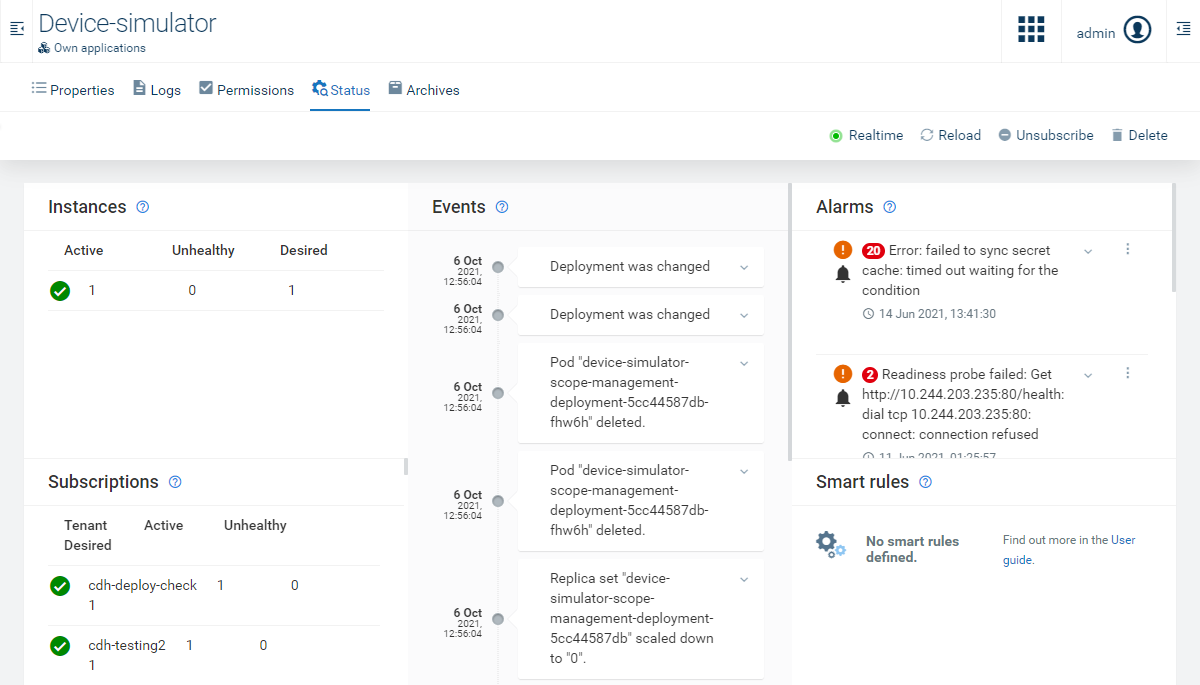
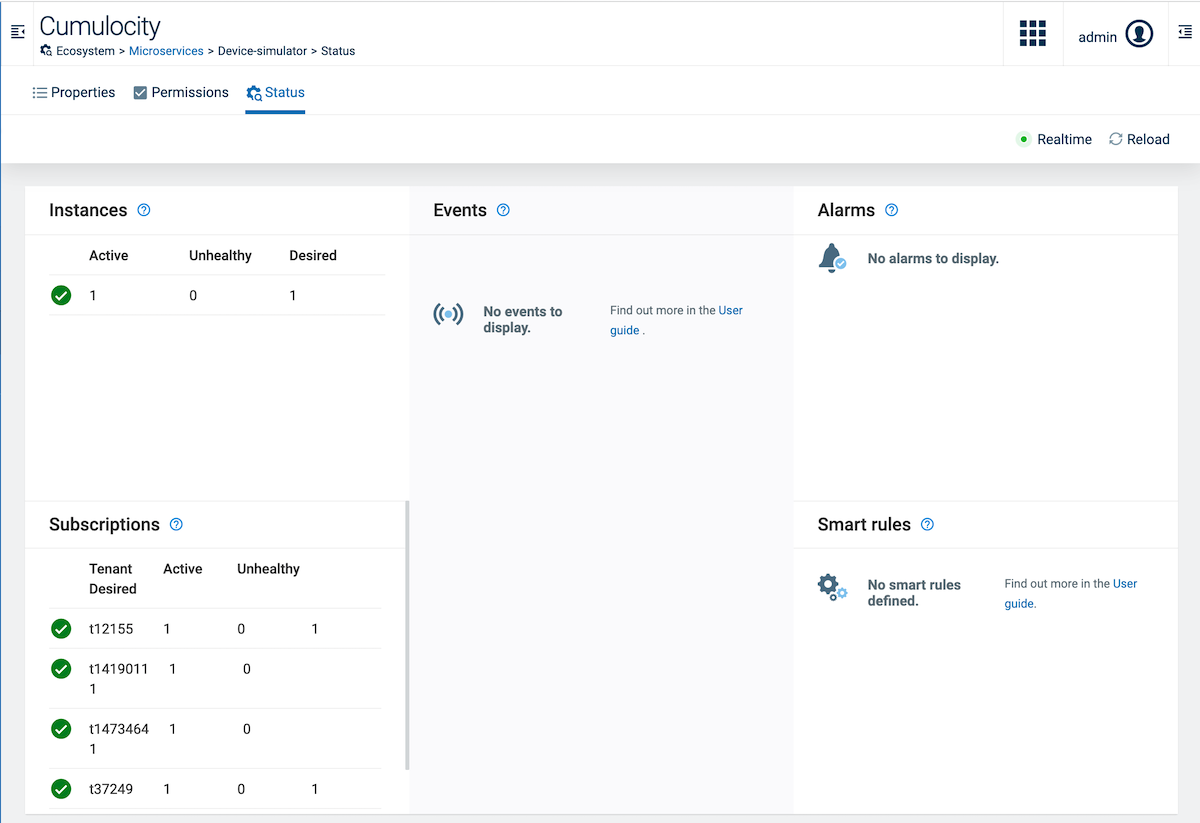
replaced screenshots and updated default subscriptions

diff --git a/content/users-guide/administration-bundle/managing-applications.md b/content/users-guide/administration-bundle/managing-applications.md
@@ -20,7 +20,7 @@ helpcontent:
 
 The {{< product-c8y-iot >}} platform distinguishes between applications and microservices.
 
-* [Applications](#applications) -  all applications either subscribed to the tenant or owned by the tenant.
+* [Applications](#applications) -  all web applications either subscribed to the tenant or owned by the tenant.
 * [Microservices](#managing-microservices) - server-side applications used to develop further functionality on top of {{< product-c8y-iot >}}, for details see [Managing microservices](#managing-microservices)
 
 Both can be accessed via the **Ecosystem** menu in the navigator.
@@ -51,23 +51,25 @@ Your applications are available through the application switcher in the top bar 
 
 {{< product-c8y-iot >}} provides a variety of applications for different purposes. Depending on your installation and/or optional services your tenant will show a selection of the potentially available applications.
 
-Below you find all applications which are by default available in a {{< standard-tenant >}} and in an {{< enterprise-tenant >}}. In addition, numerous optional applications might be subscribed to your tenant.
+Below all applications are listed which are by default available in the {{< standard-tenant >}} or {{< enterprise-tenant >}}. In addition, numerous optional applications might be subscribed to your tenant.
 
 >**Info:** In the **All applications** tab, subscribed applications are labeled as "Subscribed". Subscribed applications may not be added, modified or removed by the user but only by a tenant administrator.
 
 #### Applications susbcribed by default
 
 <table>
+<col width="150">
+<col width="250">
 <col width="200">
-<col width="400">
-<col width="200">
-<col width="200">
+<col width="150">
+<col width="220">
 <thead>
 <tr>
 <th style="text-align:left">Application (name visible in the UI)</th>
 <th style="text-align:left">Functionality</th>
 <th style="text-align:left">Name (identification in the API)</th>
 <th style="text-align:left">Technical type</th>
+<th style="text-align:left">Availability</th>
 </tr>
 </thead>
 <tbody>
@@ -76,6 +78,7 @@ Below you find all applications which are by default available in a {{< standard
 <td style="text-align:left">Lets account administrators manage users, roles, tenants and applications.</td>
 <td style="text-align:left">administration</td>
 <td style="text-align:left">Web app</td>
+<td style="text-align:left">{{< standard-tenant >}}, {{< enterprise-tenant >}}</td>
 </tr>
 
 <tr>
@@ -83,6 +86,7 @@ Below you find all applications which are by default available in a {{< standard
 <td style="text-align:left">Manage and monitor IoT assets and data from a business perspective.</td>
 <td style="text-align:left">cockpit</td>
 <td style="text-align:left">Web app</td>
+<td style="text-align:left">{{< standard-tenant >}}, {{< enterprise-tenant >}}</td>
 </tr>
 
 <tr>
@@ -90,6 +94,17 @@ Below you find all applications which are by default available in a {{< standard
 <td style="text-align:left">Manage and monitor devices, and control and troubleshoot devices remotely.</td>
 <td style="text-align:left">devicemanagement</td>
 <td style="text-align:left">Web app</td>
+<td style="text-align:left">{{< standard-tenant >}}, {{< enterprise-tenant >}}</td>
+
+<tr>
+<td style="text-align:left"><a href="/apama/overview-analytics/" class="no-ajaxy">Streaming Analytics</a></td>
+<td style="text-align:left">Manage and edit Analytics Builder models and EPL apps (if enabled).</td>
+<td style="text-align:left">Streaming Analytics</td>
+<td style="text-align:left">Web app</td>
+<td style="text-align:left">{{< standard-tenant >}} (limited version for Analytics Builder), {{< enterprise-tenant >}} (full version)</td>
+</tr>
+
+</tr>
 
 </tbody>
 </table>

diff --git a/content/users-guide/administration-bundle/managing-microservices.md b/content/users-guide/administration-bundle/managing-microservices.md
@@ -46,15 +46,22 @@ Below you find a list of all microservices which are by default subscribed in a 
 <tbody>
 
 <tr>
-<td style="text-align:left"><a href="/apama/overview-analytics/" class="no-ajaxy">Apama-ctrl*</a></td>
-<td style="text-align:left">Runtime for Analytics Builder, EPL Apps, and smart rules.</td>
+<td style="text-align:left"><a href="/apama/overview-analytics/" class="no-ajaxy">apama-ctrl-starter </a></td>
+<td style="text-align:left">Restricted version of the full Apama microservice to run unlimited smart rules and a limited number of Analytics Builder models.</td>
 <th style="text-align:left">Microservice</th>
-<td style="text-align:left">{{< standard-tenant >}}, {{< enterprise-tenant >}}</td>
+<td style="text-align:left">{{< standard-tenant >}}</td>
+</tr>
+
+<tr>
+<td style="text-align:left"><a href="/apama/overview-analytics/" class="no-ajaxy">Apama-ctrl*</a></td>
+<td style="text-align:left">Runtime for Analytics Builder, EPL Apps, and smart rules. Different sizes depending on your subscription.</td>
+<th style="text-align:left">Microservice</th>
+<td style="text-align:left">{{< enterprise-tenant >}}</td>
 </tr>
 
 <tr>
 <td style="text-align:left"><a href="/users-guide/device-management#simulator" class="no-ajaxy">device-simulator</a></td>
-<td style="text-align:left">Simulate all aspects of IoT devices.</td>
+<td style="text-align:left">Simulates all aspects of IoT devices.</td>
 <th style="text-align:left">Microservice</th>
 <td style="text-align:left">{{< standard-tenant >}}, {{< enterprise-tenant >}}</td>
 </tr>
@@ -68,14 +75,14 @@ Below you find a list of all microservices which are by default subscribed in a 
 
 <tr>
 <td style="text-align:left"><a href="/users-guide/cockpit#smart-rules" class="no-ajaxy">smartrule</a></td>
-<td style="text-align:left">Use the Smart Rule engine and create <a href="/users-guide/cockpit#smart-rules" class="no-ajaxy">Smart Rules</a> to perform actions based on realtime data. Requires the following application: "apama-ctrl-*"</td>
+<td style="text-align:left">Allows to use the smart rules engine and create <a href="/users-guide/cockpit#smart-rules" class="no-ajaxy">smart rules</a> to perform actions based on realtime data. Requires the following microservice: "apama-ctrl-*"</td>
 <th style="text-align:left">Microservice</th>
 <td style="text-align:left">{{< standard-tenant >}}, {{< enterprise-tenant >}}</td>
 </tr>
 
 <tr>
 <td style="text-align:left"><a href="/users-guide/enterprise-tenant#customization" class="no-ajaxy">sslmanagement</a></td>
-<td style="text-align:left">Activate your own custom domain name by using a SSL certificate.</td>
+<td style="text-align:left">Allows to activate your own custom domain name by using a SSL certificate.</td>
 <th style="text-align:left">Microservice</th>
 <td style="text-align:left">{{< enterprise-tenant >}}</td>
 </tr>
